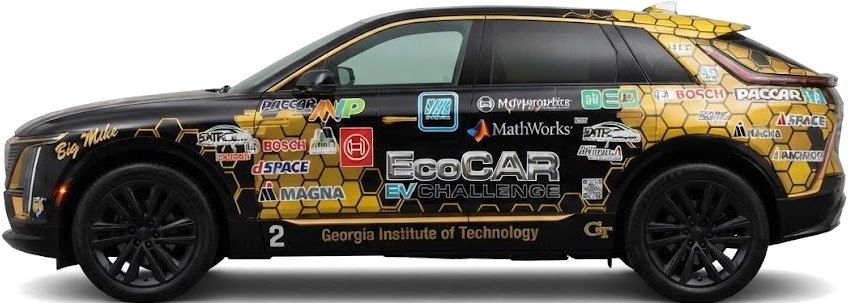
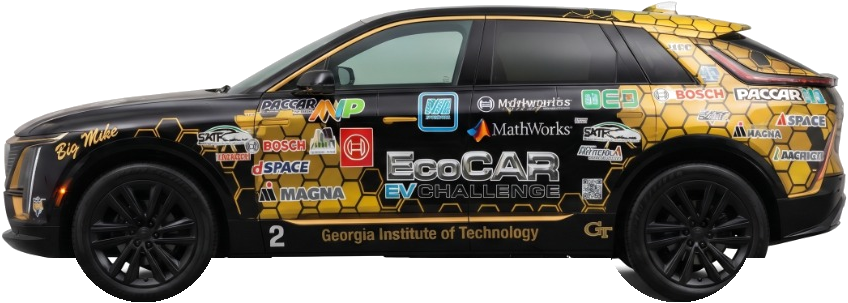
Enhance car cutout clarity, remove floor shadow completely, remove exhaust particles, and switch to forward-driving clockwise circuit

diff --git a/index.html b/index.html
@@ -90,31 +90,28 @@
     .roaming-car-wrapper {
       position: fixed;
       z-index: 50;
-      width: 168px;
-      height: 60px;
+      width: 175px;
+      height: 62px;
       pointer-events: auto;
       cursor: pointer;
       user-select: none;
-      filter: drop-shadow(0 6px 12px rgba(0, 0, 0, 0.4));
+      filter: drop-shadow(0 6px 12px rgba(0, 0, 0, 0.45));
       transition: left 1.8s cubic-bezier(0.25, 1, 0.5, 1),
                   top 1.8s cubic-bezier(0.25, 1, 0.5, 1),
                   transform 0.7s cubic-bezier(0.34, 1.56, 0.64, 1);
     }
     .roaming-car-wrapper:hover {
-      filter: drop-shadow(0 0 14px rgba(216, 167, 56, 0.85)) drop-shadow(0 8px 18px rgba(0, 0, 0, 0.5));
+      filter: drop-shadow(0 0 16px rgba(216, 167, 56, 0.9)) drop-shadow(0 8px 18px rgba(0, 0, 0, 0.5));
+    }
+    .roaming-car-wrapper img {
+      image-rendering: -webkit-optimize-contrast;
+      image-rendering: crisp-edges;
     }
     @media (max-width: 640px) {
       .roaming-car-wrapper {
-        width: 120px;
-        height: 43px;
+        width: 125px;
+        height: 45px;
       }
-    }
-    @keyframes exhaustTrail {
-      0% { opacity: 0.85; transform: scale(0.6) translateX(0); }
-      100% { opacity: 0; transform: scale(1.6) translateX(-18px); }
-    }
-    .exhaust-particle {
-      animation: exhaustTrail 1.2s infinite ease-out;
     }
   </style>
 </head>
@@ -124,16 +121,12 @@
   <!-- =====================================================================
        ROAMING ECOCAR CADILLAC LYRIQ MASCOT (TIRES GLUED TO SCREEN EDGES)
   ====================================================================== -->
-  <div id="roaming-car" class="roaming-car-wrapper group" style="top: calc(100vh - 62px); left: 10vw; transform: rotate(0deg);" onclick="interactCarMascot()">
+  <div id="roaming-car" class="roaming-car-wrapper group" style="top: 0px; left: 10vw; transform: rotate(0deg);" onclick="interactCarMascot()">
     <div class="relative w-full h-full">
       <!-- Interactive Speech / Tooltip Bubble -->
       <div id="roaming-car-bubble" class="absolute -top-12 left-1/2 -translate-x-1/2 px-3.5 py-1.5 rounded-xl bg-slate-900/95 dark:bg-white text-white dark:text-slate-900 text-xs font-mono font-bold whitespace-nowrap shadow-2xl opacity-0 pointer-events-none transition-all duration-300 group-hover:opacity-100 border border-gtgold-400/60 flex items-center gap-2">
         <span id="roaming-car-text">Too fast to catch it? ⚡</span>
       </div>
-
-      <!-- Energy / Speed Particles -->
-      <span class="exhaust-particle absolute top-8 -left-2 text-[11px] text-gtgold-400 select-none pointer-events-none">⚡</span>
-      <span class="exhaust-particle absolute top-9 -left-5 text-[10px] text-emerald-400 select-none pointer-events-none" style="animation-delay: 0.5s;">🌿</span>
 
       <!-- Exact EcoCAR Cadillac LYRIQ Cutout Image -->
       <img src="ecocar-lyriq.png" alt="Georgia Tech EcoCAR Cadillac LYRIQ" class="w-full h-full object-contain pointer-events-none select-none" />
@@ -1596,29 +1589,36 @@
     ];
     let carQuoteIdx = 0;
 
-    // Waypoints circumnavigating all 4 edges of the viewport
-    // The tires are aligned flush against each edge of the screen:
-    // - Bottom: car upright (rotate 0deg), tires touching bottom edge
-    // - Right: car driving up (rotate -90deg), tires touching right edge
-    // - Top: car driving left upside-down (rotate 180deg, NO vertical flip), tires touching top edge
-    // - Left: car driving down (rotate 90deg), tires touching left edge
+    // Clockwise waypoints circumnavigating all 4 edges with front bumper leading:
+    // Car naturally faces LEFT in original photo.
+    // 1. Top Edge: moving LEFT to RIGHT
+    //    Car facing right -> rotate(180deg) without flip (wheels on top edge: top: 0px)
+    // 2. Right Edge: moving TOP to BOTTOM
+    //    Car facing down -> rotate(90deg) (wheels on right edge: left: calc(100vw - 118px))
+    // 3. Bottom Edge: moving RIGHT to LEFT
+    //    Car facing left -> rotate(0deg) (wheels on bottom edge: top: calc(100vh - 62px))
+    // 4. Left Edge: moving BOTTOM to TOP
+    //    Car facing up -> rotate(-90deg) (wheels on left edge: left: -56px)
     const CAR_WAYPOINTS = [
-      // 1. Bottom edge driving right
-      { top: "calc(100vh - 60px)", left: "8vw", rotation: 0 },
-      { top: "calc(100vh - 60px)", left: "42vw", rotation: 0 },
-      { top: "calc(100vh - 60px)", left: "calc(100vw - 190px)", rotation: 0 },
-      // 2. Turning up the right edge (tires against right screen boundary)
-      { top: "72vh", left: "calc(100vw - 114px)", rotation: -90 },
-      { top: "44vh", left: "calc(100vw - 114px)", rotation: -90 },
-      { top: "16vh", left: "calc(100vw - 114px)", rotation: -90 },
-      // 3. Turning left along the top edge (upside down, tires against top boundary)
-      { top: "0px", left: "calc(100vw - 190px)", rotation: 180 },
-      { top: "0px", left: "45vw", rotation: 180 },
-      { top: "0px", left: "8vw", rotation: 180 },
-      // 4. Turning down the left edge (tires against left boundary)
-      { top: "20vh", left: "-54px", rotation: 90 },
-      { top: "50vh", left: "-54px", rotation: 90 },
-      { top: "75vh", left: "-54px", rotation: 90 }
+      // 1. Top edge driving forward (left to right)
+      { top: "0px", left: "6vw", rotation: 180 },
+      { top: "0px", left: "38vw", rotation: 180 },
+      { top: "0px", left: "calc(100vw - 195px)", rotation: 180 },
+
+      // 2. Turning down right edge driving forward (top to bottom)
+      { top: "18vh", left: "calc(100vw - 118px)", rotation: 90 },
+      { top: "45vh", left: "calc(100vw - 118px)", rotation: 90 },
+      { top: "72vh", left: "calc(100vw - 118px)", rotation: 90 },
+
+      // 3. Turning bottom edge driving forward (right to left)
+      { top: "calc(100vh - 62px)", left: "calc(100vw - 195px)", rotation: 0 },
+      { top: "calc(100vh - 62px)", left: "42vw", rotation: 0 },
+      { top: "calc(100vh - 62px)", left: "6vw", rotation: 0 },
+
+      // 4. Turning up left edge driving forward (bottom to top)
+      { top: "70vh", left: "-56px", rotation: -90 },
+      { top: "42vh", left: "-56px", rotation: -90 },
+      { top: "16vh", left: "-56px", rotation: -90 }
     ];
 
     let currentWaypointIdx = 0;
